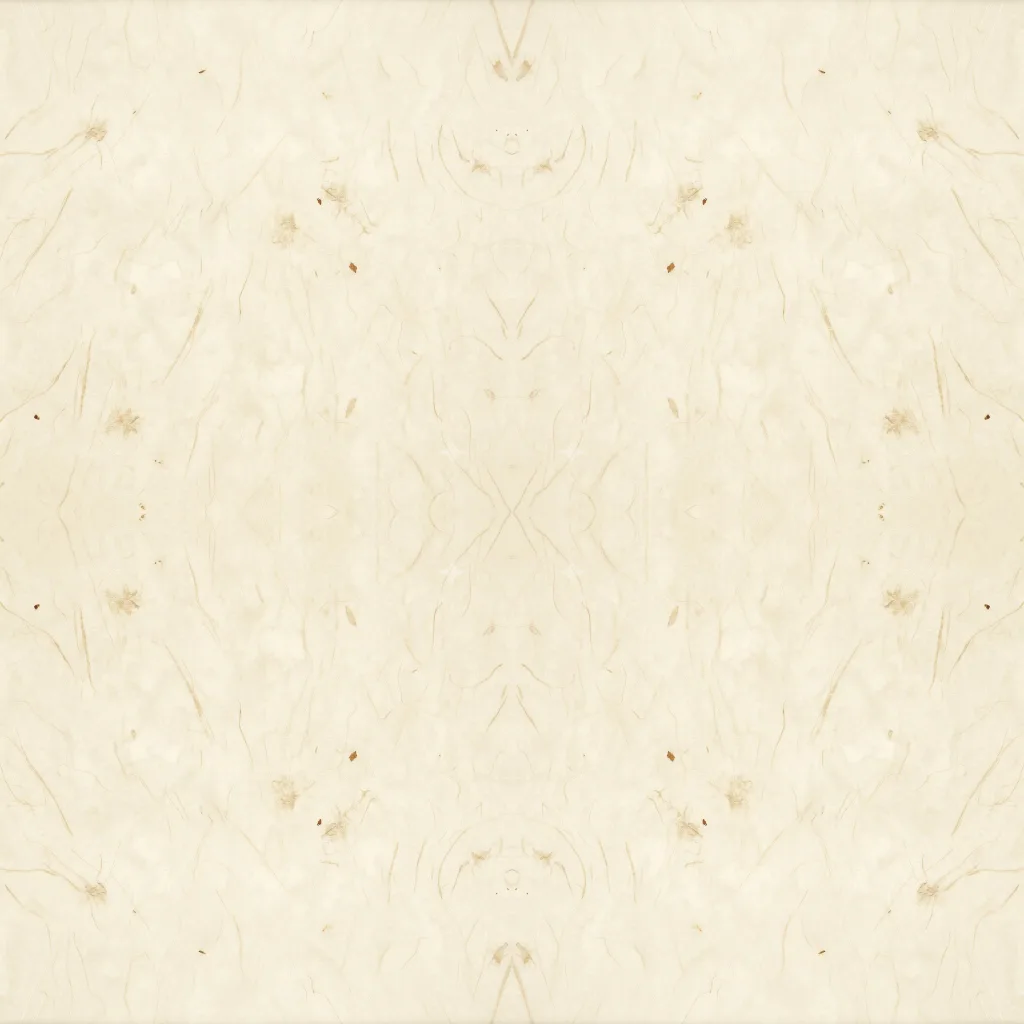
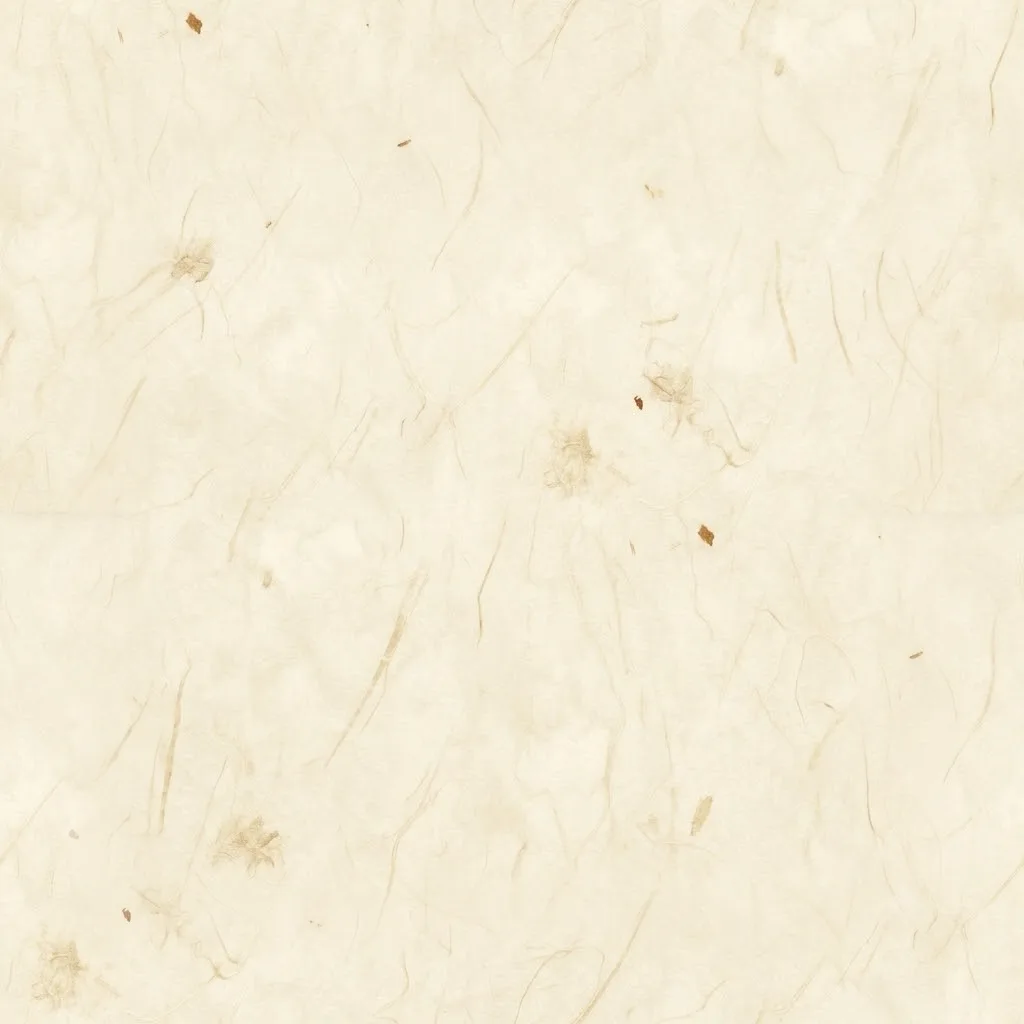
모르는 땅은 빈 한지 — 지도는 보고 다닌 만큼 칠해진다
형: "모르는 땅 텍스트로 두지 말고 … 한지스타일로" · "지도 밝히는건 정찰같은게 해야" · "마을과 마을이 밝혀졌으면 그 사이는 뭐로 밝혀?"
- 안개: 닥나무 결이 보이는 한지(제미나이, 이음매 없이 구움) 위로 고구려 벽화풍 구름무늬가 흐른다. 본 땅 가장자리는 먹이 번진 듯 들쭉날쭉
- 아는 나라라도 못 본 고을은 안 그린다 (본 땅 = intel.land). 이름만 들은 나라는 도읍 언저리에 먹점과 이름 "소문으로 들은 나라"
- 땅을 보는 길: 제 땅·이웃 · 정찰(고을과 그 이웃) · 우리 군대가 선 곳과 이웃 · 싸운 곳 · 사신·장사꾼이 오간 길(도읍에서 도읍까지, 그 길의 나라도 알게 된다) · 동맹이 나눠 준 땅
- 두 끝을 다 본 길은 길을 따라 띠로 밝다 — 고을 사이는 길로 열린다 (discovery.ts stepSight · 플레이어 눈만, 굴림 없음)
- 요동 줄 밑그림 넷(M9a~d) — 신의주·압록 하구·요동·요하·심양·송요 들 (형: "고조선영역인 만주요동까지")

Claude-Session: https://claude.ai/code/session_01FtZfrtrY2BHvisxGU2f9Ak

diff --git a/src/ui/realm/mapview.ts b/src/ui/realm/mapview.ts
@@ -79,8 +79,15 @@ export const MAP_CSS = `
 .map[data-world] { background-color: #cdb98e; }
 .map .nd.fresh, .map .lb.fresh, .map svg .fresh { animation: rv 2.2s ease-out both; }
 @keyframes rv { from { opacity: 0; } to { opacity: 1; } }
-.map .fogw { position: absolute; z-index: 1; transform: translate(-50%, -50%); pointer-events: none; white-space: nowrap; color: #6a5634aa;
-  font-size: max(11px, calc(min(2.4cqh, 1.8cqw) / var(--z, 1) * var(--zs, 1))); font-weight: 700; letter-spacing: .4em; }
+.map .fogc { position: absolute; z-index: 1; transform: translate(-50%, -50%); pointer-events: none; opacity: .5; mix-blend-mode: multiply;
+  animation: fogdrift var(--d, 40s) ease-in-out infinite alternate; }
+@keyframes fogdrift { from { transform: translate(-50%, -50%); } to { transform: translate(-38%, -54%); } }
+.map .rumor { position: absolute; z-index: 2; transform: translate(-50%, -50%); pointer-events: none; text-align: center; white-space: nowrap;
+  font-family: 'Gowun Batang', serif; color: #3d2e1ccc; font-weight: 700; font-size: max(10px, calc(2.1cqh / var(--z, 1) * var(--zs, 1) * var(--ls, 1))); }
+.map .rumor i { display: block; margin: 0 auto 2px; width: 1.6em; height: 1.1em; border-radius: 48% 52% 45% 55%;
+  background: radial-gradient(ellipse at 45% 50%, #2a1d10cc 0, #2a1d1088 45%, #2a1d1000 72%); }
+.map .rumor small { display: block; font-size: .7em; font-weight: 500; opacity: .8; }
+@media (prefers-reduced-motion: reduce) { .map .fogc { animation: none; } }
 `
 
 export interface MapMarch {
@@ -148,7 +155,11 @@ export function mapHtml(
     svg += `<stop offset=".65" stop-color="${a.color}" stop-opacity=".45"/><stop offset="1" stop-color="${a.color}" stop-opacity="0"/></radialGradient>`
   }
   const cellsOn = region === 'yeongnam' || worldGeoOf(region) !== null
-  const fog = r.known !== undefined ? fogSvg(r, region, W, H, TERRITORY_R, vis, isFresh) : null
+  // 두 끝을 다 본 길은 그 길을 따라 띠로 밝다 (누가 걸어 본 길)
+  const corridors = r.known === undefined ? [] : Object.values(r.edges).sort((x, y) => (x.id < y.id ? -1 : 1))
+    .filter((ed) => seen(ed.a) && seen(ed.b))
+    .map((ed) => smoothPath(routePoints(region, ed, px(ed.a), px(ed.b), W, H)))
+  const fog = r.known !== undefined ? fogSvg(r, me, region, W, H, TERRITORY_R, vis, isFresh, corridors, art) : null
   svg += `${landClipSvg(region, W, H)}${fog?.defs ?? ''}</defs>`
   if (cellsOn) svg += provincesSvg(r, region, W, H, TERRITORY_R, dim, focus, seen)
   else svg += `<g class="terr">`
@@ -428,54 +439,82 @@ function cellsOf(r: Realm, region: RegionId, W: number, H: number, terrR: number
 // ───────── 넓어지는 지도 — 모르는 땅 (발견, docs/realm/WORLD-MAP.md §2 · 2026-10-19)
 
 /**
- * `me` 가 지도에서 볼 수 있는 고을 — 아는 나라(제 나라 포함)의 고을, 그 고을과 길로 맞닿은 빈 땅·소도, 우리 군대가 선 곳.
- * 발견이 없는 판이면 전부.
+ * `me` 가 지도에서 볼 수 있는 고을 — 본 땅(intel.land: 제 땅·이웃 · 정찰 · 군대가 선 곳 · 사신이 오간 길 · 동맹이 나눠 준 땅).
+ * 본 땅이라도 주인을 모르는 나라면 그리지 않는다 (나라를 흘리지 않게). 발견이 없는 판이면 전부.
  */
 export function visibleNodes(r: Realm, me: string): Set<string> {
   if (r.known === undefined) return new Set(Object.keys(r.nodes))
   const out = new Set<string>()
-  for (const n of Object.values(r.nodes)) if (n.owner !== null && knows(r, me, n.owner)) out.add(n.id)
-  for (const a of Object.values(r.armies)) if (a.faction === me) out.add(a.at)
-  const core = [...out]
-  for (const ed of Object.values(r.edges)) {
-    for (const [x, y] of [[ed.a, ed.b], [ed.b, ed.a]] as const) {
-      if (core.includes(x) && r.nodes[y]?.owner === null) out.add(y)
-    }
+  const k = r.intel[me] ?? {}
+  for (const n of Object.values(r.nodes)) {
+    if (n.owner !== me && k[n.id]?.land !== true) continue
+    if (n.owner === null || knows(r, me, n.owner)) out.add(n.id)
   }
+  for (const a of Object.values(r.armies)) if (a.faction === me) out.add(a.at)
   return out
 }
 
-/** 옛 종이빛 안개 — 보이는 고을의 땅 조각만 뚫는다. 막 알게 된 나라의 조각은 서서히 뚫린다 (.fresh) */
+/** 같은 id 면 같은 흔들림 (0..1) — 그림 자리 고르기에만 */
+const jit = (s: string): number => {
+  let h = 2166136261
+  for (let i = 0; i < s.length; i++) h = Math.imul(h ^ s.charCodeAt(i), 16777619)
+  return ((h >>> 0) % 10007) / 10007
+}
+
+/**
+ * 모르는 땅은 빈 한지다 (형: "한국엔 양피지가 없으니까 한지스타일로" — 2026-10-19). 닥나무 결이 보이는 종이 위에
+ * 고구려 벽화의 구름무늬가 흘러가고, 본 땅만 붓으로 칠해져 있다 — 가장자리는 먹이 번진 듯 들쭉날쭉.
+ * 이름만 들은 나라(아는데 땅을 못 본 나라)는 도읍 자리에 먹점 하나와 이름만 — 대강의 자리다.
+ */
 function fogSvg(
-  r: Realm, region: RegionId, W: number, H: number, terrR: number, vis: ReadonlySet<string>, fresh: (id: string) => boolean,
+  r: Realm, me: string, region: RegionId, W: number, H: number, terrR: number, vis: ReadonlySet<string>, fresh: (id: string) => boolean,
+  corridors: readonly string[], art: string,
 ): { defs: string; body: string; words: string } {
   const { nodes, cells } = cellsOf(r, region, W, H, terrR)
-  const blur = Math.round(terrR * 0.35)
+  const blur = Math.round(terrR * 0.3)
   let holes = ''
   for (const [i, c] of cells.entries()) {
     const id = nodes[i]!.id
     if (!vis.has(id)) continue
     holes += `<path d="${polyPath(c.pts)}"${fresh(id) ? ' class="fresh"' : ''}/>`
   }
-  const defs = `<filter id="rm-fog-blur" x="-5%" y="-5%" width="110%" height="110%"><feGaussianBlur stdDeviation="${blur}"/></filter>`
+  for (const d of corridors) holes += `<path d="${d}" fill="none" stroke="#000" stroke-width="${Math.round(terrR * 1.6)}" stroke-linecap="round" stroke-linejoin="round"/>`
+  const tile = Math.round(Math.min(W, H) * 0.42)
+  const defs = `<filter id="rm-fog-blur" x="-5%" y="-5%" width="110%" height="110%">`
+    + `<feTurbulence type="fractalNoise" baseFrequency="${(3 / terrR).toFixed(4)}" numOctaves="2" seed="11" result="n"/>`
+    + `<feDisplacementMap in="SourceGraphic" in2="n" scale="${Math.round(terrR * 0.9)}" xChannelSelector="R" yChannelSelector="G" result="d"/>`
+    + `<feGaussianBlur in="d" stdDeviation="${blur}"/></filter>`
     + `<mask id="rm-fog" maskUnits="userSpaceOnUse" x="0" y="0" width="${W}" height="${H}"><rect width="${W}" height="${H}" fill="#fff"/>`
     + `<g fill="#000" filter="url(#rm-fog-blur)">${holes}</g></mask>`
-    + `<radialGradient id="rm-fog-c" cx=".5" cy=".5" r=".75"><stop offset="0" stop-color="#ddcba3"/><stop offset="1" stop-color="#bfa678"/></radialGradient>`
-  const body = `<g class="fog" mask="url(#rm-fog)"><rect width="${W}" height="${H}" fill="url(#rm-fog-c)" opacity=".95"/></g>`
-  // "모르는 땅" 글씨 — 고른 눈금 위, 뭍이고 보이는 고을에서 먼 자리 (나라 자리를 흘리지 않게 눈금으로)
+    + `<pattern id="rm-hanji" patternUnits="userSpaceOnUse" width="${tile}" height="${tile}"><image href="${art}map-world/hanji.webp" width="${tile}" height="${tile}" preserveAspectRatio="none"/></pattern>`
+  const body = `<g class="fog" mask="url(#rm-fog)"><rect width="${W}" height="${H}" fill="#efe4cc"/><rect width="${W}" height="${H}" fill="url(#rm-hanji)"/></g>`
+  // 구름무늬 — 고른 눈금 위, 본 고을에서 먼 자리 (나라 자리를 흘리지 않게 눈금으로)
   let words = ''
   const seenPts = [...vis].map((id) => nodePos(region, id)).filter((p) => p !== undefined)
-  const g = worldGeoOf(region)
-  // 세로로 긴 판은 줄을 늘린다 — 칸이 거의 정사각이 되게
-  const rows = Math.max(4, Math.round((4 * H) / W * 1.25))
+  const cols = W < H ? 3 : 5
+  const rows = Math.max(3, Math.round((cols * H) / W * 0.9))
+  const cw = (W < H ? 26 : 14)
   for (let gy = 0; gy < rows; gy++) {
-    for (let gx = 0; gx < 5; gx++) {
-      const x = (gx + 0.5 + (gy % 2) * 0.25) / 5
-      const y = (gy + 0.5) / rows
-      if (g !== null && !g.onLand(g.proj.lon0 + x * (g.proj.lon1 - g.proj.lon0), g.proj.lat1 - y * (g.proj.lat1 - g.proj.lat0))) continue
-      if (seenPts.some((p) => Math.hypot((p[0] - x) * W, (p[1] - y) * H) < terrR * 4)) continue
-      words += `<span class="fogw" style="left:${(x * 100).toFixed(1)}%;top:${(y * 100).toFixed(1)}%">모르는 땅</span>`
+    for (let gx = 0; gx < cols; gx++) {
+      const key = `${region}:${gx}:${gy}`
+      const x = (gx + 0.5 + (gy % 2) * 0.3 + (jit(key) - 0.5) * 0.4) / cols
+      const y = (gy + 0.5 + (jit(key + 'y') - 0.5) * 0.5) / rows
+      if (seenPts.some((p) => Math.hypot((p[0] - x) * W, (p[1] - y) * H) < terrR * 3.2)) continue
+      const n = 1 + Math.floor(jit(key + 'n') * 8)
+      const flip = jit(key + 'f') < 0.5 ? ' scaleX(-1)' : ''
+      words += `<img class="fogc" src="${art}map-world/cloud-${n}.webp" alt="" style="left:${(x * 100).toFixed(1)}%;top:${(y * 100).toFixed(1)}%;width:${(cw * (0.8 + jit(key + 's') * 0.5)).toFixed(1)}%;--d:${Math.round(30 + jit(key + 'd') * 30)}s${flip ? ';rotate:y 180deg' : ''}">`
     }
+  }
+  // 이름만 들은 나라 — 도읍 자리 언저리에 먹점과 이름
+  for (const f of Object.keys(r.factions).sort()) {
+    if (f === me || !knows(r, me, f)) continue
+    if (Object.values(r.nodes).some((n) => n.owner === f && vis.has(n.id))) continue
+    const cap = r.factions[f]!.capital
+    const p = nodePos(region, cap)
+    if (p === undefined || r.nodes[cap]?.owner !== f) continue
+    const x = p[0] + ((jit(f) - 0.5) * terrR * 1.6) / W
+    const y = p[1] + ((jit(f + 'y') - 0.5) * terrR * 1.6) / H
+    words += `<span class="rumor" style="left:${(x * 100).toFixed(1)}%;top:${(y * 100).toFixed(1)}%"><i></i>${r.factions[f]!.name}<small>소문으로 들은 나라</small></span>`
   }
   return { defs, body, words }
 }

diff --git a/tools/world-sketch.js b/tools/world-sketch.js
@@ -229,6 +229,71 @@ const TILES = {
       [[[128.1, 37.45], [127.95, 37.38], [127.8, 37.3]], 3], // 섬강
     ],
   },
+  // ── 요동 줄 (col −2, 경도 121.9–124.8) — 형: "북한영토를 포함한 고조선영역인 만주요동까지 포함해야" (2026-10-19)
+  // M9a — 요동반도 남부 · 서한만 · 신의주·압록강 하구 (지금 판의 서쪽 끝이 124.8 이라 잘려 있던 곳)
+  m9a: {
+    lon0: 121.9, lon1: 124.8, lat0: 38.05, lat1: 40.05,
+    land: [
+      [124.9, 40.2], [124.9, 39.75], [124.65, 39.78], [124.45, 39.85], [124.35, 39.88], [124.1, 39.84], [123.85, 39.8],
+      [123.5, 39.75], [123.15, 39.66], [122.85, 39.52], [122.6, 39.42], [122.35, 39.28], [122.1, 39.14], [121.8, 39.02],
+      [121.8, 39.95], [122.0, 40.05], [122.1, 40.2],
+    ],
+    isles: [
+      [[122.55, 39.28], [122.75, 39.3], [122.78, 39.22], [122.58, 39.18]], // 장산 군도
+      [[122.95, 39.15], [123.05, 39.15], [123.05, 39.1], [122.95, 39.1]],
+      [[124.55, 39.65], [124.68, 39.68], [124.7, 39.6], [124.56, 39.58]], // 신미도 쪽
+    ],
+    peaks: [[122.2, 123.9, 39.55, 40.2, 110, 211]], // 천산 산줄기 남쪽 끝
+    rivers: [
+      [[[124.6, 40.2], [124.45, 40.0], [124.35, 39.9]], 9], // 압록강 하구
+      [[[123.1, 40.2], [123.2, 39.9], [123.25, 39.72]], 4], // 대양하
+    ],
+  },
+  // M9b — 요동 (요양·안시·건안 쪽) · 요하 하구 · 천산 · 압록강 아래 줄기
+  m9b: {
+    lon0: 121.9, lon1: 124.8, lat0: 39.8, lat1: 41.8,
+    land: [
+      [121.8, 42.0], [124.9, 42.0], [124.9, 39.75], [124.6, 39.78], [124.35, 39.88], [124.0, 39.83], [123.7, 39.75],
+      [121.95, 39.7], [122.05, 40.05], [122.2, 40.3], [122.25, 40.5], [122.18, 40.72], [121.95, 40.85], [121.8, 40.9],
+    ],
+    isles: [],
+    peaks: [
+      [122.6, 124.4, 39.9, 41.2, 150, 221], // 천산 — 요동반도의 등뼈
+      [124.2, 124.9, 40.6, 41.6, 60, 223], // 압록 서쪽 산골
+    ],
+    rivers: [
+      [[[123.95, 41.82], [123.45, 41.78], [123.0, 41.35], [122.6, 41.05], [122.35, 40.85], [122.2, 40.7]], 8], // 혼하 → 대요하
+      [[[124.6, 41.35], [123.9, 41.3], [123.2, 41.25], [122.6, 41.05]], 6], // 태자하 (요양)
+      [[[122.75, 41.85], [122.5, 41.4], [122.4, 41.0]], 7], // 요하
+      [[[124.9, 40.5], [124.6, 40.25], [124.35, 39.9]], 9], // 압록강
+    ],
+  },
+  // M9c — 혼하·요하 가운데 줄기 (심양·무순·철령 쪽) · 요동 평원의 북쪽
+  m9c: {
+    lon0: 121.9, lon1: 124.8, lat0: 41.55, lat1: 43.55,
+    land: [[121.8, 43.7], [124.9, 43.7], [124.9, 41.4], [121.8, 41.4]],
+    isles: [],
+    peaks: [
+      [124.0, 124.9, 41.6, 42.8, 110, 231], // 용강산 서쪽 자락 · 혼하 윗골
+      [121.9, 122.2, 41.55, 42.0, 18, 233], // 의무려산 동쪽 끝
+    ],
+    rivers: [
+      [[[121.9, 43.45], [122.7, 43.3], [123.4, 43.05], [123.7, 42.6], [123.55, 42.2], [123.0, 41.9], [122.75, 41.55]], 8], // 요하
+      [[[124.9, 43.0], [124.2, 43.2], [123.6, 43.1]], 5], // 동요하
+      [[[124.9, 42.2], [124.3, 42.0], [123.9, 41.88], [123.4, 41.78], [123.2, 41.55]], 6], // 혼하
+    ],
+  },
+  // M9d — 송요 들 (사평·서요하) · 부여 서쪽 · 송화강이 꺾이는 곳
+  m9d: {
+    lon0: 121.9, lon1: 124.8, lat0: 43.3, lat1: 45.3,
+    land: [[121.8, 45.5], [124.9, 45.5], [124.9, 43.2], [121.8, 43.2]],
+    isles: [],
+    peaks: [[124.3, 124.9, 43.3, 43.9, 25, 241]],
+    rivers: [
+      [[[121.9, 43.7], [122.5, 43.6], [123.2, 43.45], [123.5, 43.3]], 6], // 서요하
+      [[[124.9, 45.3], [124.6, 45.38], [124.4, 45.5]], 8], // 송화강이 눈강을 만나러 꺾인다
+    ],
+  },
 }
 
 // eslint-disable-next-line no-unused-vars

diff --git a/src/realm/discovery.ts b/src/realm/discovery.ts
@@ -118,3 +118,70 @@ export function stepDiscovery(r: Realm, lines: ReportLine[]): void {
     discover(r, f, pick, 'rumor', lines)
   }
 }
+
+// ───────── 본 땅 — 지도는 보고 다닌 만큼 그려진다 (형: "지도 밝히는건 정찰같은게 해야하지 않나" — 2026-10-19)
+//
+// 나라를 아는 것(known)과 그 땅을 본 것(intel.land)은 다르다. 땅을 보는 길:
+//   제 땅과 그 이웃 (판을 열 때) · 정찰한 고을과 그 이웃 · 새로 쥔 고을의 이웃 · 동맹이 나눠 준 땅 (season.ts)
+//   그리고 여기 — 우리 군대가 선 고을과 그 이웃 · 싸운 고을 · 사신과 장사꾼이 오간 길 (도읍에서 도읍까지)
+// 플레이어 눈만 넓힌다 — AI 는 땅을 안 보고 나라를 본다 (발견). 굴림 없음.
+
+/** 9 — 이번 계절에 본 땅 (플레이어) */
+export function stepSight(r: Realm, lines: ReportLine[]): void {
+  if (r.known === undefined || r.player === undefined) return
+  const me = r.player
+  const known = (r.intel[me] ??= {})
+  const adj = new Map<string, string[]>()
+  for (const ed of Object.values(r.edges).sort((x, y) => (x.id < y.id ? -1 : 1))) {
+    ;(adj.get(ed.a) ?? adj.set(ed.a, []).get(ed.a)!).push(ed.b)
+    ;(adj.get(ed.b) ?? adj.set(ed.b, []).get(ed.b)!).push(ed.a)
+  }
+  const see = (id: string): void => {
+    if (r.nodes[id] !== undefined) known[id] ??= { land: true, force: null, alert: null }
+  }
+  const around = (id: string): void => {
+    see(id)
+    for (const nb of adj.get(id) ?? []) see(nb)
+  }
+  // 군대 — 선 자리와 가는 길 끝
+  for (const a of Object.values(r.armies).sort((x, y) => (x.id < y.id ? -1 : 1))) {
+    if (a.faction !== me) continue
+    around(a.at)
+    if (a.march !== null) see(a.march.to)
+  }
+  const seen = lines.slice()
+  for (const l of seen) {
+    if (l.kind === 'battle' && (l.defender === me || r.armies[l.attacker]?.faction === me)) around(l.node)
+    // 사신·장사꾼이 오간 길 — 도읍에서 도읍까지 가장 짧은 길의 고을들. 그 길에 사는 나라도 알게 된다
+    let other: string | null = null
+    let how: DiscoverHow = 'envoy'
+    if (l.kind === 'envoy' && (l.from === me || l.to === me)) other = l.from === me ? l.to : l.from
+    if (l.kind === 'market' && (l.a === me || l.b === me)) { other = l.a === me ? l.b : l.a; how = 'market' }
+    if (other === null) continue
+    const from = r.factions[me]?.capital
+    const to = r.factions[other]?.capital
+    if (from === undefined || to === undefined) continue
+    for (const id of pathBetween(adj, from, to)) {
+      see(id)
+      const o = r.nodes[id]?.owner
+      if (o !== null && o !== undefined && o !== me) discover(r, me, o, how, lines)
+    }
+  }
+}
+
+/** 길로 가장 짧은 고을들 (양 끝 포함) — 같은 길이면 id 순 (adj 가 정렬돼 있다) */
+function pathBetween(adj: ReadonlyMap<string, readonly string[]>, from: string, to: string): string[] {
+  const prev = new Map<string, string>([[from, from]])
+  const q = [from]
+  for (let i = 0; i < q.length && !prev.has(to); i++) {
+    for (const nb of adj.get(q[i]!) ?? []) {
+      if (prev.has(nb)) continue
+      prev.set(nb, q[i]!)
+      q.push(nb)
+    }
+  }
+  if (!prev.has(to)) return []
+  const out = [to]
+  while (out[out.length - 1] !== from) out.push(prev.get(out[out.length - 1]!)!)
+  return out.reverse()
+}

diff --git a/tests/realm/world.test.ts b/tests/realm/world.test.ts
@@ -13,7 +13,8 @@ import { WORLD_NATIONS } from '../../src/realm/data/nations-world.ts'
 import { WORLD_GEO } from '../../src/realm/data/regions/world-geo.ts'
 import { WORLD_DATA, WORLD_NATION_IDS, startWorld, worldGeo } from '../../src/realm/data/regions/world.ts'
 import { pairKey } from '../../src/realm/diplomacy.ts'
-import { knows } from '../../src/realm/discovery.ts'
+import { knows, stepSight } from '../../src/realm/discovery.ts'
+import type { ReportLine } from '../../src/realm/types.ts'
 import { bowUpCost } from '../../src/realm/plots.ts'
 import { advance } from '../../src/realm/season.ts'
 import { aiOrders } from '../../src/realm/ai.ts'
@@ -81,6 +82,23 @@ describe('삼한과 북녘 판', () => {
     assert.ok(html.includes('data-node="g-gungnae-cap"'))
     assert.ok(!html.includes('data-node="t-tamna-cap"'))
     assert.ok(html.includes('mask="url(#rm-fog)"'))
+  })
+
+  it('지도는 본 만큼 — 아는 나라라도 못 본 고을은 안 그린다 · 이름만 들은 나라는 먹점 · 사신이 오간 길은 열린다', () => {
+    const r = startWorld(1, 'goguryeo')
+    // 알지만 못 본 나라 — 땅은 안 그리고 도읍 언저리에 소문만
+    r.known!['goguryeo']!.push('tamna')
+    const html = mapHtml(r, 'goguryeo', '/', [], '')
+    assert.ok(!html.includes('data-node="t-tamna-cap"'))
+    assert.ok(html.includes('class="rumor"') && html.includes('탐라'))
+    assert.ok(!html.includes('모르는 땅'))
+    // 사신이 다녀오면 도읍에서 도읍까지 길의 고을이 보인다
+    const far = Object.values(r.nodes).find((n) => n.owner === 'buyeo' && n.kind === 'capital')!
+    assert.ok(r.intel['goguryeo']![far.id]?.land !== true)
+    const lines: ReportLine[] = [{ kind: 'envoy', from: 'goguryeo', to: 'buyeo', ask: 'truce', accepted: false }]
+    stepSight(r, lines)
+    assert.equal(r.intel['goguryeo']![far.id]?.land, true)
+    assert.ok(knows(r, 'goguryeo', 'buyeo'))
   })
 
   it('판이 흐른다 — 같은 시드면 같은 판', () => {

diff --git a/src/realm/season.ts b/src/realm/season.ts
@@ -30,7 +30,7 @@ import {
 import { blockedWhy, seasonOf } from './calendar.ts'
 import { applyBowUps, refreshSpies, resolvePlots } from './plots.ts'
 import { noteTake } from './stance.ts'
-import { stepDiscovery } from './discovery.ts'
+import { stepDiscovery, stepSight } from './discovery.ts'
 import { PEOPLE_SCALE, migrate } from './migrate.ts'
 import { spreadRumors } from './rumor.ts'
 import { addMen, giveMen, kitOf, scaleMen, takeMen } from './kit.ts'
@@ -924,6 +924,7 @@ export function advance(
   for (const [f, spies] of Object.entries(r.spies ?? {})) for (const s of spies) noteMet(r, f, heroesAtNode(r, s.node))
   spreadRumors(r, lines) // 9 — 첩자가 들은 것 (간접 정보)
   stepDiscovery(r, lines) // 9 — 이번 계절의 일로 서로 알게 된다 (삼한 남부 판 · 발견)
+  stepSight(r, lines) // 9 — 우리 군대·사신·장사꾼이 본 땅 (지도는 보고 다닌 만큼)
   if (r.player !== undefined) {
     for (const a of seenMarches(r, r.player)) {
       const line = { kind: 'sighted', faction: a.faction, army: a.id, from: a.march!.from, to: a.march!.to } as const

diff --git a/docs/realm/ART-QUEUE.md b/docs/realm/ART-QUEUE.md
@@ -2,7 +2,7 @@
 
 > 형 (2026-10-19): *"챗지피티를 중요한 이미지 생성에 항상 다음 만들거 목록화해두고 크레딧 생길때마다 생성시켜야지 뭐하냐"*
 
-**아침에 형이 "챗지피티 이미지 요청부터" 하라고 하면**: 이 줄의 맨 위부터 굽는다 — 지도 조각은 다 받았다(2026-10-19), 이제 인물 5b → 5. 막히면 계정을 바꿔 달라고 한다.
+**아침에 형이 "챗지피티 이미지 요청부터" 하라고 하면**: 이 줄의 맨 위부터 굽는다 — **① 깃발 다시(빨간 해 동그라미 없이 — 아래 2b)** ② 요동 조각 M9a~d ③ 인물 5b → 5. 막히면 계정을 바꿔 달라고 한다.
 
 **규칙**
 - 이 줄은 **비지 않게** 둔다. 새 기능·새 나라·새 사건이 생기면 그 자리에서 여기 적는다.
@@ -25,7 +25,8 @@
 | ~~M7~~ | ~~M7a 혼강·휘발하·송화강 윗줄기 · M7b 백두산(천지)·두만강~~ — 2026-10-19 받음 | | TILES.m7a · m7b |
 | ~~M8~~ | ~~M8a 부여의 들(말 떼) · M8b 목단강·경박호~~ — 2026-10-19 받음 | | TILES.m8a · m8b |
 | ~~M4~~ | ~~M4a 탐라(제주)·다도해 · M4b 남해 동쪽·대마도 쪽 바다~~ — 2026-10-19 받음 | | TILES.m4a · m4b |
-| M9 | (다음) 요동·요하 서쪽 끝 · 연해주 바다 — 판이 거기까지 가면 밑그림부터 | | |
+| **M9** | **요동 줄 넷 (다음 — 맨 먼저)** — M9a 요동반도 남부·서한만·신의주 · M9b 요동(요양)·요하 하구·천산 · M9c 혼하·요하(심양·무순) · M9d 송요 들·서요하. 형: "북한영토를 포함한 고조선영역인 만주요동까지" | | TILES.m9a~m9d (밑그림 됨) |
+| M10 | 요서 줄 (col −3, 경도 119–121.9) — 요동반도 끝(여순)·요하 서쪽·의무려산 · 그다음 연해주 바다 | | 밑그림부터 |
 | ~~M0~~ | ~~(0,0) 영남 다시~~ — 2026-10-19 받음 (map-world/yeongnam-spring.webp) | | |
 
 ## 챗지피티 (격자·투명 — 위가 먼저)
@@ -34,6 +35,7 @@
 |---|---|---|---|---|
 | ~~1~~ | ~~칠십팔국 앱 아이콘~~ — 2026-10-19 받음 (챗지피티, 깃발의 세 쉼표 무늬는 삼족오로 고침) | | | |
 | ~~2~~ | ~~영남 나라 문장 16~~ — 2026-10-19 받음 (챗지피티) | | | |
+| **2b** | **깃발 전부 다시 — 빨간 해 동그라미 없이** (형: "일장기같이 만드냐" — 내 주문에 red sun disc 를 넣었다. 지금은 tools/realm-undisc.mjs 로 덮어 둔 임시). 천 위에 먹 그림만, 둘레에 오방색 띠나 구름무늬 테. 부정어: NO red circle, NO sun disc, NO rising-sun rays | 일장기처럼 읽혔다 | 4×4 셋, 투명 | cut/emblem-* |
 | ~~3~~ | ~~고을 기호~~ — 2026-10-19 열여섯 받음 (목책·해자 마을은 지은 것이 지도에 보인다) | | | |
 | 4 | 길 기호 — 나루터 배 · 고개 돌무지 · 숲길 장승 · 뱃길 돛 | 지도 길 다듬기(A안)에 얹는다 | 4×4, 투명 | 지도 SVG 위 |
 | ~~4b~~ | ~~삼한 남부 새 나라 문장~~ — 2026-10-19 받음 (성곽 칸은 기와지붕이라 버림 · 백제는 매) · 남은 다섯(개·작살·말 탄 궁수·돌성문·현무)은 북쪽 나라 몫 | | | |
